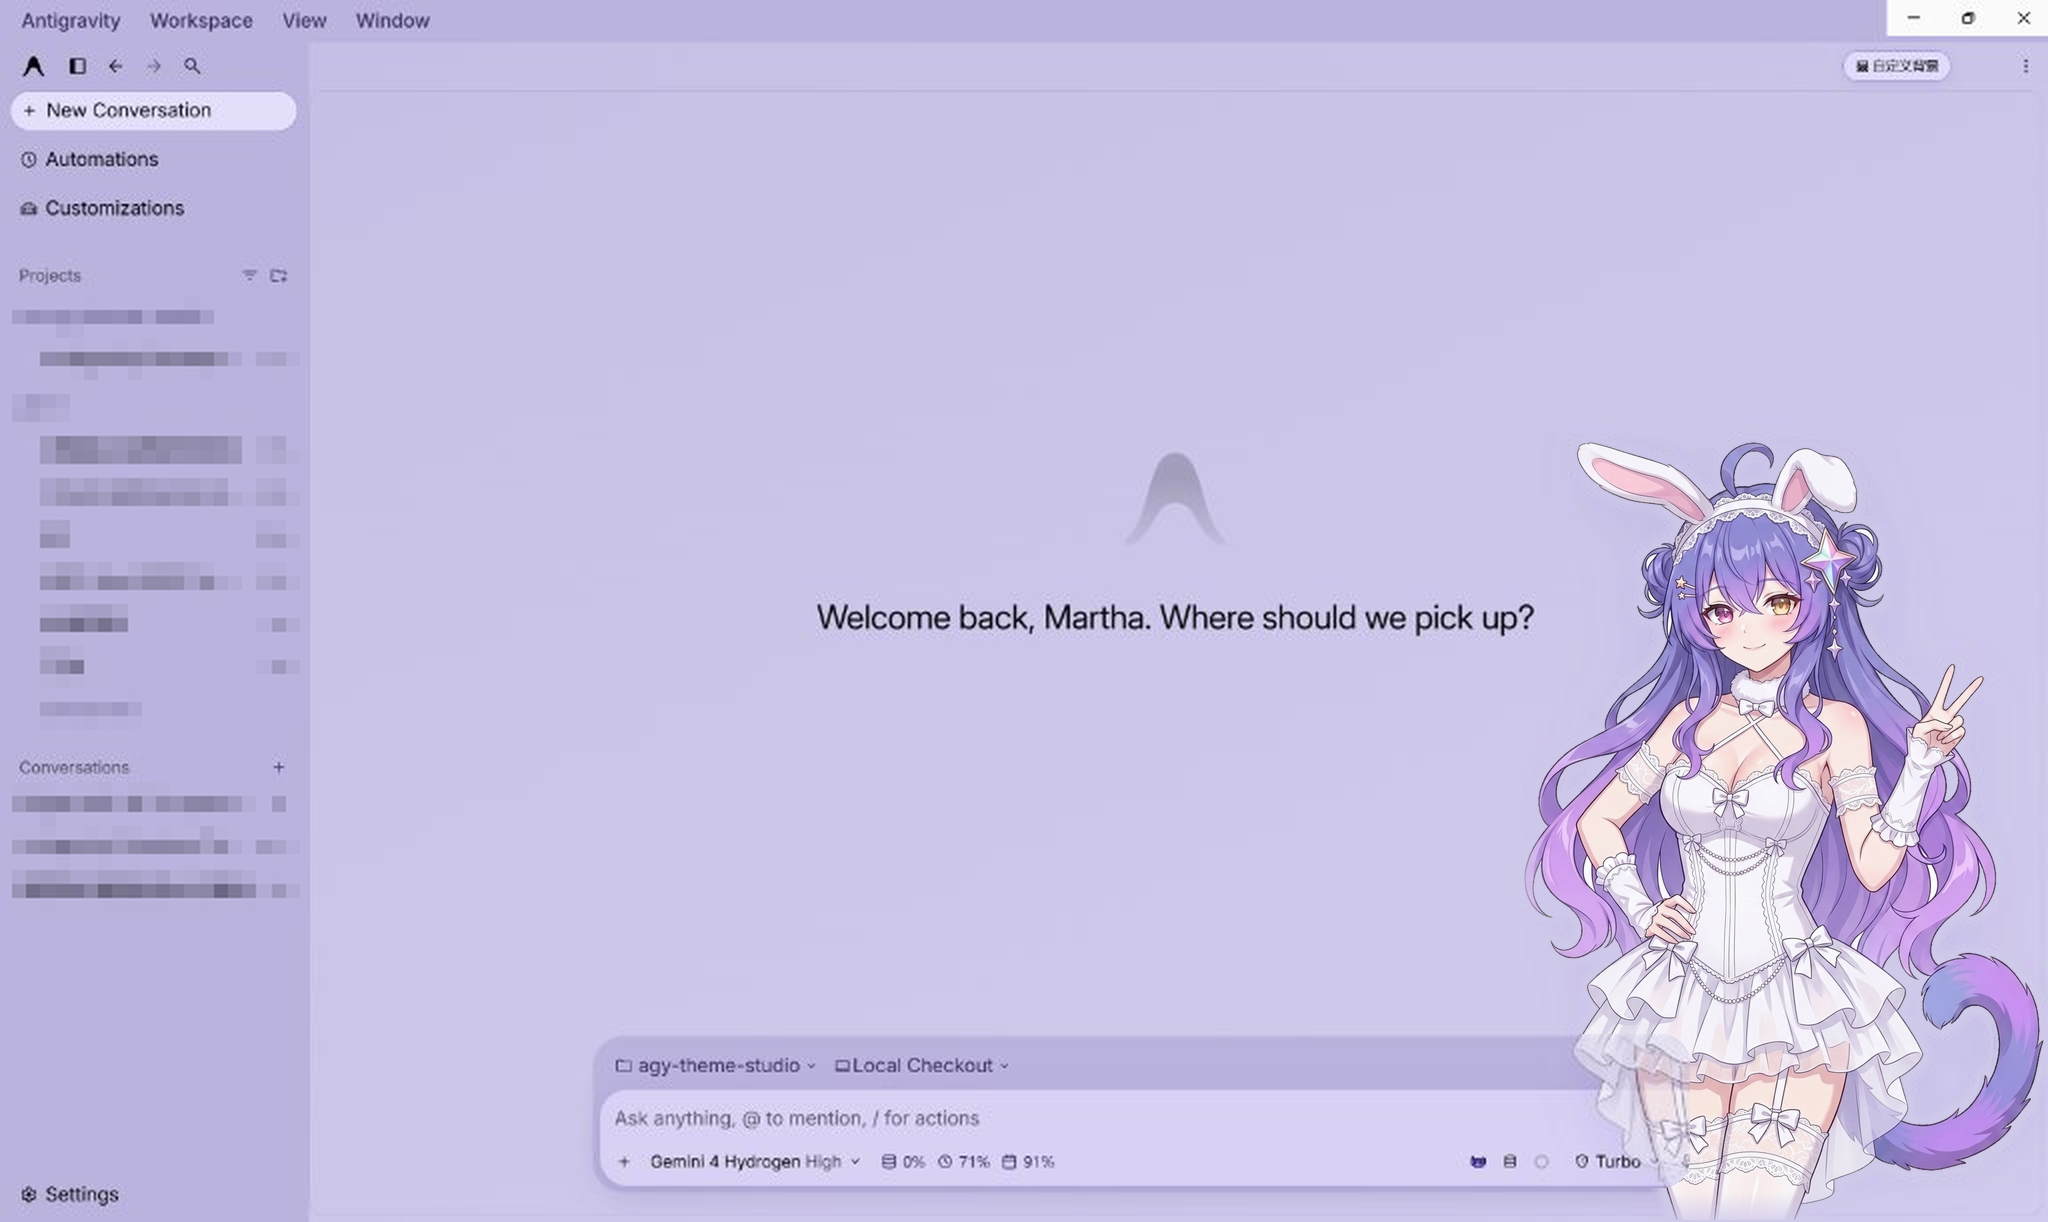
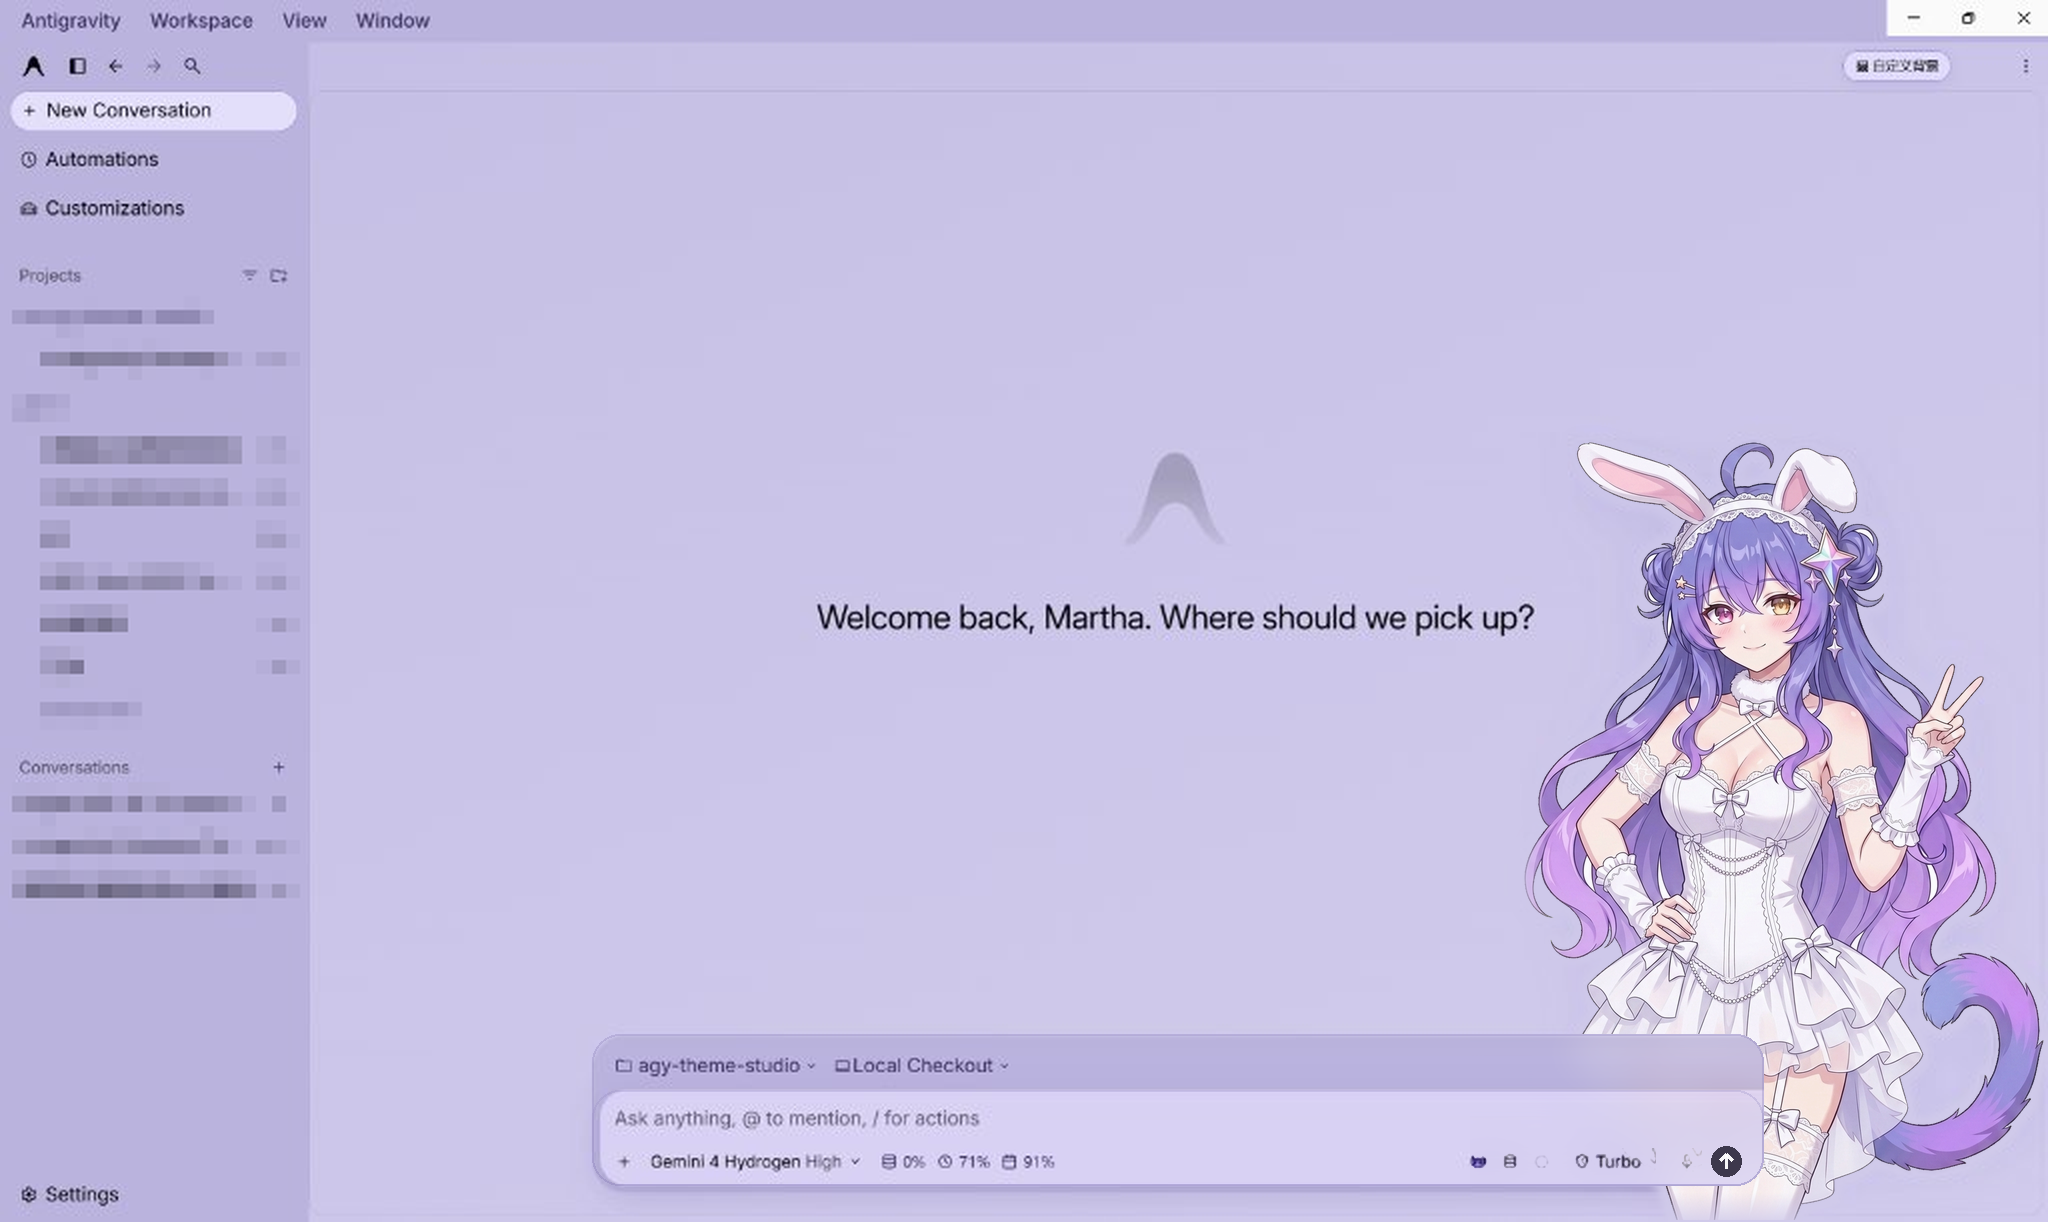
docs: 修复昼版输入栏重影、新增 MIT LICENSE 并全面升级 README 排版审美

Changed region(s): [[0.75, 0.8396, 0.875, 0.9951]]

diff --git a/README.md b/README.md
@@ -1,53 +1,82 @@
 <div align="center">
-  <img src="assets/logo.svg" alt="Antigravity Theme Studio" width="72" />
+  <img src="assets/logo.svg" alt="Antigravity Theme Studio" width="84" />
   <h1>Antigravity Theme Studio</h1>
-  <p>专为 <strong>Antigravity Desktop</strong> 打造的二次元紫韵主题美化与动态立绘插件</p>
+  <p><strong>专为 Antigravity Desktop 打造的二次元紫韵主题美化与 WebGL 动态立绘插件</strong></p>
+
+  <p>
+    <img src="https://img.shields.io/badge/Antigravity-2.0-7C5CE6?style=for-the-badge&logoColor=white" alt="Antigravity 2.0" />
+    <img src="https://img.shields.io/badge/Version-1.0.0-9E86F5?style=for-the-badge" alt="Version 1.0.0" />
+    <img src="https://img.shields.io/badge/Live2D--Like-WebGL%20Softbody-B28DFF?style=for-the-badge" alt="WebGL Softbody" />
+    <img src="https://img.shields.io/badge/Platform-Windows%20%7C%20macOS%20%7C%20Linux-6B5B95?style=for-the-badge" alt="Cross Platform" />
+    <a href="LICENSE"><img src="https://img.shields.io/badge/License-MIT-5E4DB2?style=for-the-badge" alt="MIT License" /></a>
+  </p>
+
+  <p>
+    <a href="#-效果展示">效果对比</a> ·
+    <a href="#-核心视觉与立绘特性">立绘与特性</a> ·
+    <a href="#-快速安装">快速安装</a> ·
+    <a href="#-使用方式">控制面板</a>
+  </p>
 </div>
-
-## 效果展示
-
-### 桌面端实机效果（昼版 · 兔女郎穿搭 / 夜版 · 暮紫穿搭）
-
-| 昼版 · 柔雾浅紫（搭配白色花边兔女郎） |
-| :---: |
-| <img src="assets/preview_day.png" alt="昼版实机效果" width="100%" /> |
-
-| 夜版 · 柔和暮紫（搭配暮紫慵懒穿搭） |
-| :---: |
-| <img src="assets/preview_night.png" alt="夜版实机效果" width="100%" /> |
 
 ---
 
-## 核心视觉与立绘特性
+## ✨ 效果展示
 
-### 右侧动态交互立绘（WebGL 软体物理 + 3 套内置穿搭）
+<table>
+  <tr>
+    <th width="50%">☀ 昼形态 · 柔雾浅紫（白色花边兔女郎）</th>
+    <th width="50%">🌙 夜形态 · 柔和暮紫（暮紫慵懒穿搭）</th>
+  </tr>
+  <tr>
+    <td align="center"><img src="assets/preview_day.png" alt="昼版实机效果" width="100%" /></td>
+    <td align="center"><img src="assets/preview_night.png" alt="夜版实机效果" width="100%" /></td>
+  </tr>
+</table>
 
-- **3 套内置高清透明立绘，昼夜自由混搭**：内置 **昼版日常（纯白吊带 + 浅蓝牛仔短裤 + 白丝）**、**夜版慵懒（暮紫丝质吊带裙 + 针织开衫）** 与 **V2 白色花边兔女郎（昼夜通用）** 三套透明抠图立绘，昼夜两种主题形态可各自独立选用，也支持替换为自己的本地立绘图片。
-- **待机微呼吸 & 柔风发尾微摆**：基于 WebGL `20×28` 顶点网格实时驱动，锁定面部五官不形变，仅让胸肩呈现自然呼吸起伏、外侧发梢与猫尾随柔风轻摆；幅度支持 `50%–200%` 精细调节，切换至后台或最小化时自动休眠，几乎不占性能。
-- **精准透明通道命中 + 局部点击弹跳**：借助 `96×144` 透明通道命中图精确识别人物轮廓，**点击立绘任意部位即可触发局部果冻回弹**（`10%–150%` 弹跳范围可调），同时完全不遮挡、不拦截底层对话区的文字选中、链接点击与页面滚动。
-- **自由位置构图 + 镜像翻转**：支持 `0.50x–1.60x` 自由缩放、右边距（`-220px ~ 360px`）与底边距（`-180px ~ 300px`）微调、常规透明度调节，以及**一键水平镜像翻转**（外层边缘柔和羽化自动同步适配）。
-- **右侧栏智能平滑避让**：开启「左移避让」后，当你展开右侧控制面板、文件浏览等侧栏或窗口变窄时，立绘会通过 GPU 动画平滑左移并淡出至「避让透明」，收起侧栏后自动优雅归位，既保留陪伴感又不干扰阅读与操作。
+<details>
+<summary>👗 <strong>展开查看内置 3 套高清透明立绘穿搭（昼 / 夜可自由混搭）</strong></summary>
+<br />
 
 | 昼版 · 清新日常 | 夜版 · 暮紫慵懒 | 昼夜通用 · 白色花边兔女郎 |
 | :---: | :---: | :---: |
 | <img src="assets/hagemi_day.png" alt="哈基米昼版立绘" width="220" /> | <img src="assets/hagemi_night.png" alt="哈基米夜版立绘" width="220" /> | <img src="assets/hagemi_bunny.png" alt="白色花边兔女郎立绘" width="220" /> |
 
-### 主题配色与画布背景
-
-- **昼 / 夜双形态与 4 套预设**：默认 `07:00–19:00` 呈现柔雾浅紫昼版，`19:00–07:00` 自动切换柔和暮紫夜版；支持定时自动、跟随系统明暗、手动锁定或一键暂停还原原版界面，且每套预设的色板微调相互独立、互不串色。
-- **全窗自定义画布背景**：一键选用本地图片直接替代整窗画布背景，支持 `10%–100%` 透显度调节，搭配毛玻璃底部输入栏、可调圆角（`4–36px`）与代码区配色美化，保证壁纸氛围与文字可读性兼顾。
+</details>
 
 ---
 
-## 安装方式
+## 🎨 核心视觉与立绘特性
 
-### 方式一：一行命令自动安装 / 更新
+| 模块 | 核心亮点 |
+| :--- | :--- |
+| **WebGL 动态交互立绘** | 由 `20×28` 顶点网格驱动，锁定面部五官不形变，提供**胸肩待机微呼吸 + 外侧发梢与猫尾柔风微摆**（`50%–200%` 幅度调节，后台自动休眠）。 |
+| **精准命中与不挡操作** | 内置 `96×144` 透明通道命中图精确识别人物轮廓，**点击立绘任意部位触发局部果冻弹跳**（`10%–150%` 可调），鼠标完全穿透不拦截文字选中与点击。 |
+| **自由构图与智能避让** | 支持缩放（`0.50x–1.60x`）、右边距/底边距微调、常规透明度、**水平镜像翻转**（羽化自适应）；展开右侧面板或窗口变窄时平滑左移并淡出避让。 |
+| **昼夜双形态与 4 套预设** | 默认 `07:00–19:00` 柔雾浅紫昼版、`19:00–07:00` 柔和暮紫夜版，支持定时 / 跟随系统 / 手动锁定 / 一键还原，各预设色板独立微调互不串色。 |
+| **全窗自定义画布背景** | 一键选取本地图片作为整窗背景（`10%–100%` 透显度调节），搭配毛玻璃底部输入栏、可调圆角（`4–36px`）与代码高亮配色。 |
 
-无需手动查找插件目录；无论是否安装过 `git`，脚本都会自动完成安装或拉取最新更新，且**不会覆盖个人配置**。
+---
 
-- **Windows（终端）**：
-  ```powershell
-  irm https://raw.githubusercontent.com/happyday91/agy-theme-studio/main/install.ps1 | iex
+## 📦 快速安装
+
+### 方式二（推荐）：一键复制提示词给 Antigravity 自动安装
+
+不想手动配置或敲命令时，点击代码块右上角 **Copy** 复制下面这段提示词，直接发给 Antigravity 对话即可自动完成安装或更新：
+
+```text
+请帮我安装或更新 GitHub 插件 https://github.com/happyday91/agy-theme-studio ：自动执行对应系统的一键安装脚本（Windows 运行 install.ps1，macOS/Linux 运行 install.sh）将其部署到 Antigravity 插件目录，完成后提醒我启用或重启生效。
+```
+
+<details>
+<summary>💻 <strong>方式一：终端一行命令自动安装 / 更新（支持 Windows / macOS / Linux）</strong></summary>
+<br />
+
+无需手动查找插件目录；无论是否安装过 `git`，脚本都会自动克隆、拉取更新或走压缩包安装，且**不会覆盖 `sidecar_data` 个人配置**。
+
+- **Windows（终端）**（兼容 CMD 与 PowerShell）：
+  ```cmd
+  powershell -NoProfile -ExecutionPolicy Bypass -Command "irm https://raw.githubusercontent.com/happyday91/agy-theme-studio/main/install.ps1 | iex"
   ```
 
 - **macOS / Linux（终端）**：
@@ -55,35 +84,39 @@
   curl -fsSL https://raw.githubusercontent.com/happyday91/agy-theme-studio/main/install.sh | bash
   ```
 
-### 方式二：一键复制提示词给 Antigravity 自动安装（推荐）
-
-不想自己敲命令时，直接点击右上角复制下面这段提示词，发给 Antigravity 对话即可自动完成安装或更新：
-
-```text
-请帮我安装或更新 GitHub 插件 https://github.com/happyday91/agy-theme-studio ：自动执行对应系统的一键安装脚本（Windows 运行 install.ps1，macOS/Linux 运行 install.sh）将其部署到 Antigravity 插件目录，完成后提醒我启用或重启生效。
-```
+</details>
 
 > **启用生效**：安装完成后，在 Antigravity Desktop 的 **Plugins / Customizations** 管理页启用 **Antigravity Theme Studio**（或重启客户端即可生效）。
 
 ---
 
-## 使用方式
+## 🛠 使用方式
 
-### 1. 可视化控制面板（支持左侧智能避让）
+### 1. 可视化控制面板（支持立绘智能左移避让）
 
-在对话中打开 `[Theme Studio](sidecar://agy-theme-studio/theme_studio/)`（或在插件管理中打开面板），即可在自适应单页仪表盘中实时微调全部参数；此时开启「左移避让」的立绘也会自动左移淡出，不遮挡面板操作：
+在对话中打开 `[Theme Studio](sidecar://agy-theme-studio/theme_studio/)`（或在插件管理中打开面板），即可在自适应单页仪表盘中实时调节全部参数；展开面板时立绘会自动平滑左移淡出，不遮挡右侧操作：
 
-<img src="assets/preview_panel.png" alt="Theme Studio 控制面板与立绘避让效果" width="100%" />
-
-**控制面板高清全览：**
-
-<p align="center">
-  <img src="assets/preview_panel_ui.png" alt="Theme Studio 控制面板高清特写" width="440" />
-</p>
+<table>
+  <tr>
+    <th width="64%">整窗避让联动效果</th>
+    <th width="36%">控制面板高清全览</th>
+  </tr>
+  <tr>
+    <td align="center"><img src="assets/preview_panel.png" alt="Theme Studio 整窗避让效果" width="100%" /></td>
+    <td align="center"><img src="assets/preview_panel_ui.png" alt="Theme Studio 控制面板高清特写" width="100%" /></td>
+  </tr>
+</table>
 
 - **昼夜形态与预设**：切换定时 / 跟随系统 / 锁定昼夜 / 暂停还原，自定义起昼与起夜时间、默认昼夜预设。
 - **右侧立绘与动作**：一键开关显示、左移避让、呼吸微摆、点击弹跳、镜像翻转；滑动调节常规/避让透明度、呼吸幅度、点击跳动范围、缩放与边距，并切换昼/夜穿搭。
 - **视觉效果与色板**：开启自定义背景与选图，调整背景透显度、输入框不透明度、圆角大小与字体；逐项微调画布/卡片/强调/文字/代码/边框颜色，支持 JSON 预设导出、导入与恢复默认。
 
 ### 2. 顶部快捷自定义背景
+
 - 点击对话窗口顶部右侧的 **「🖼 自定义背景」** 按钮即可快速开启/更换本地背景图（推荐 `16:9` 或 `16:10` 横屏图），并在面板或快捷入口调节背景透显度。
+
+---
+
+<div align="center">
+  <sub>基于 <a href="LICENSE">MIT License</a> 开源 · Made for Antigravity Desktop</sub>
+</div>
